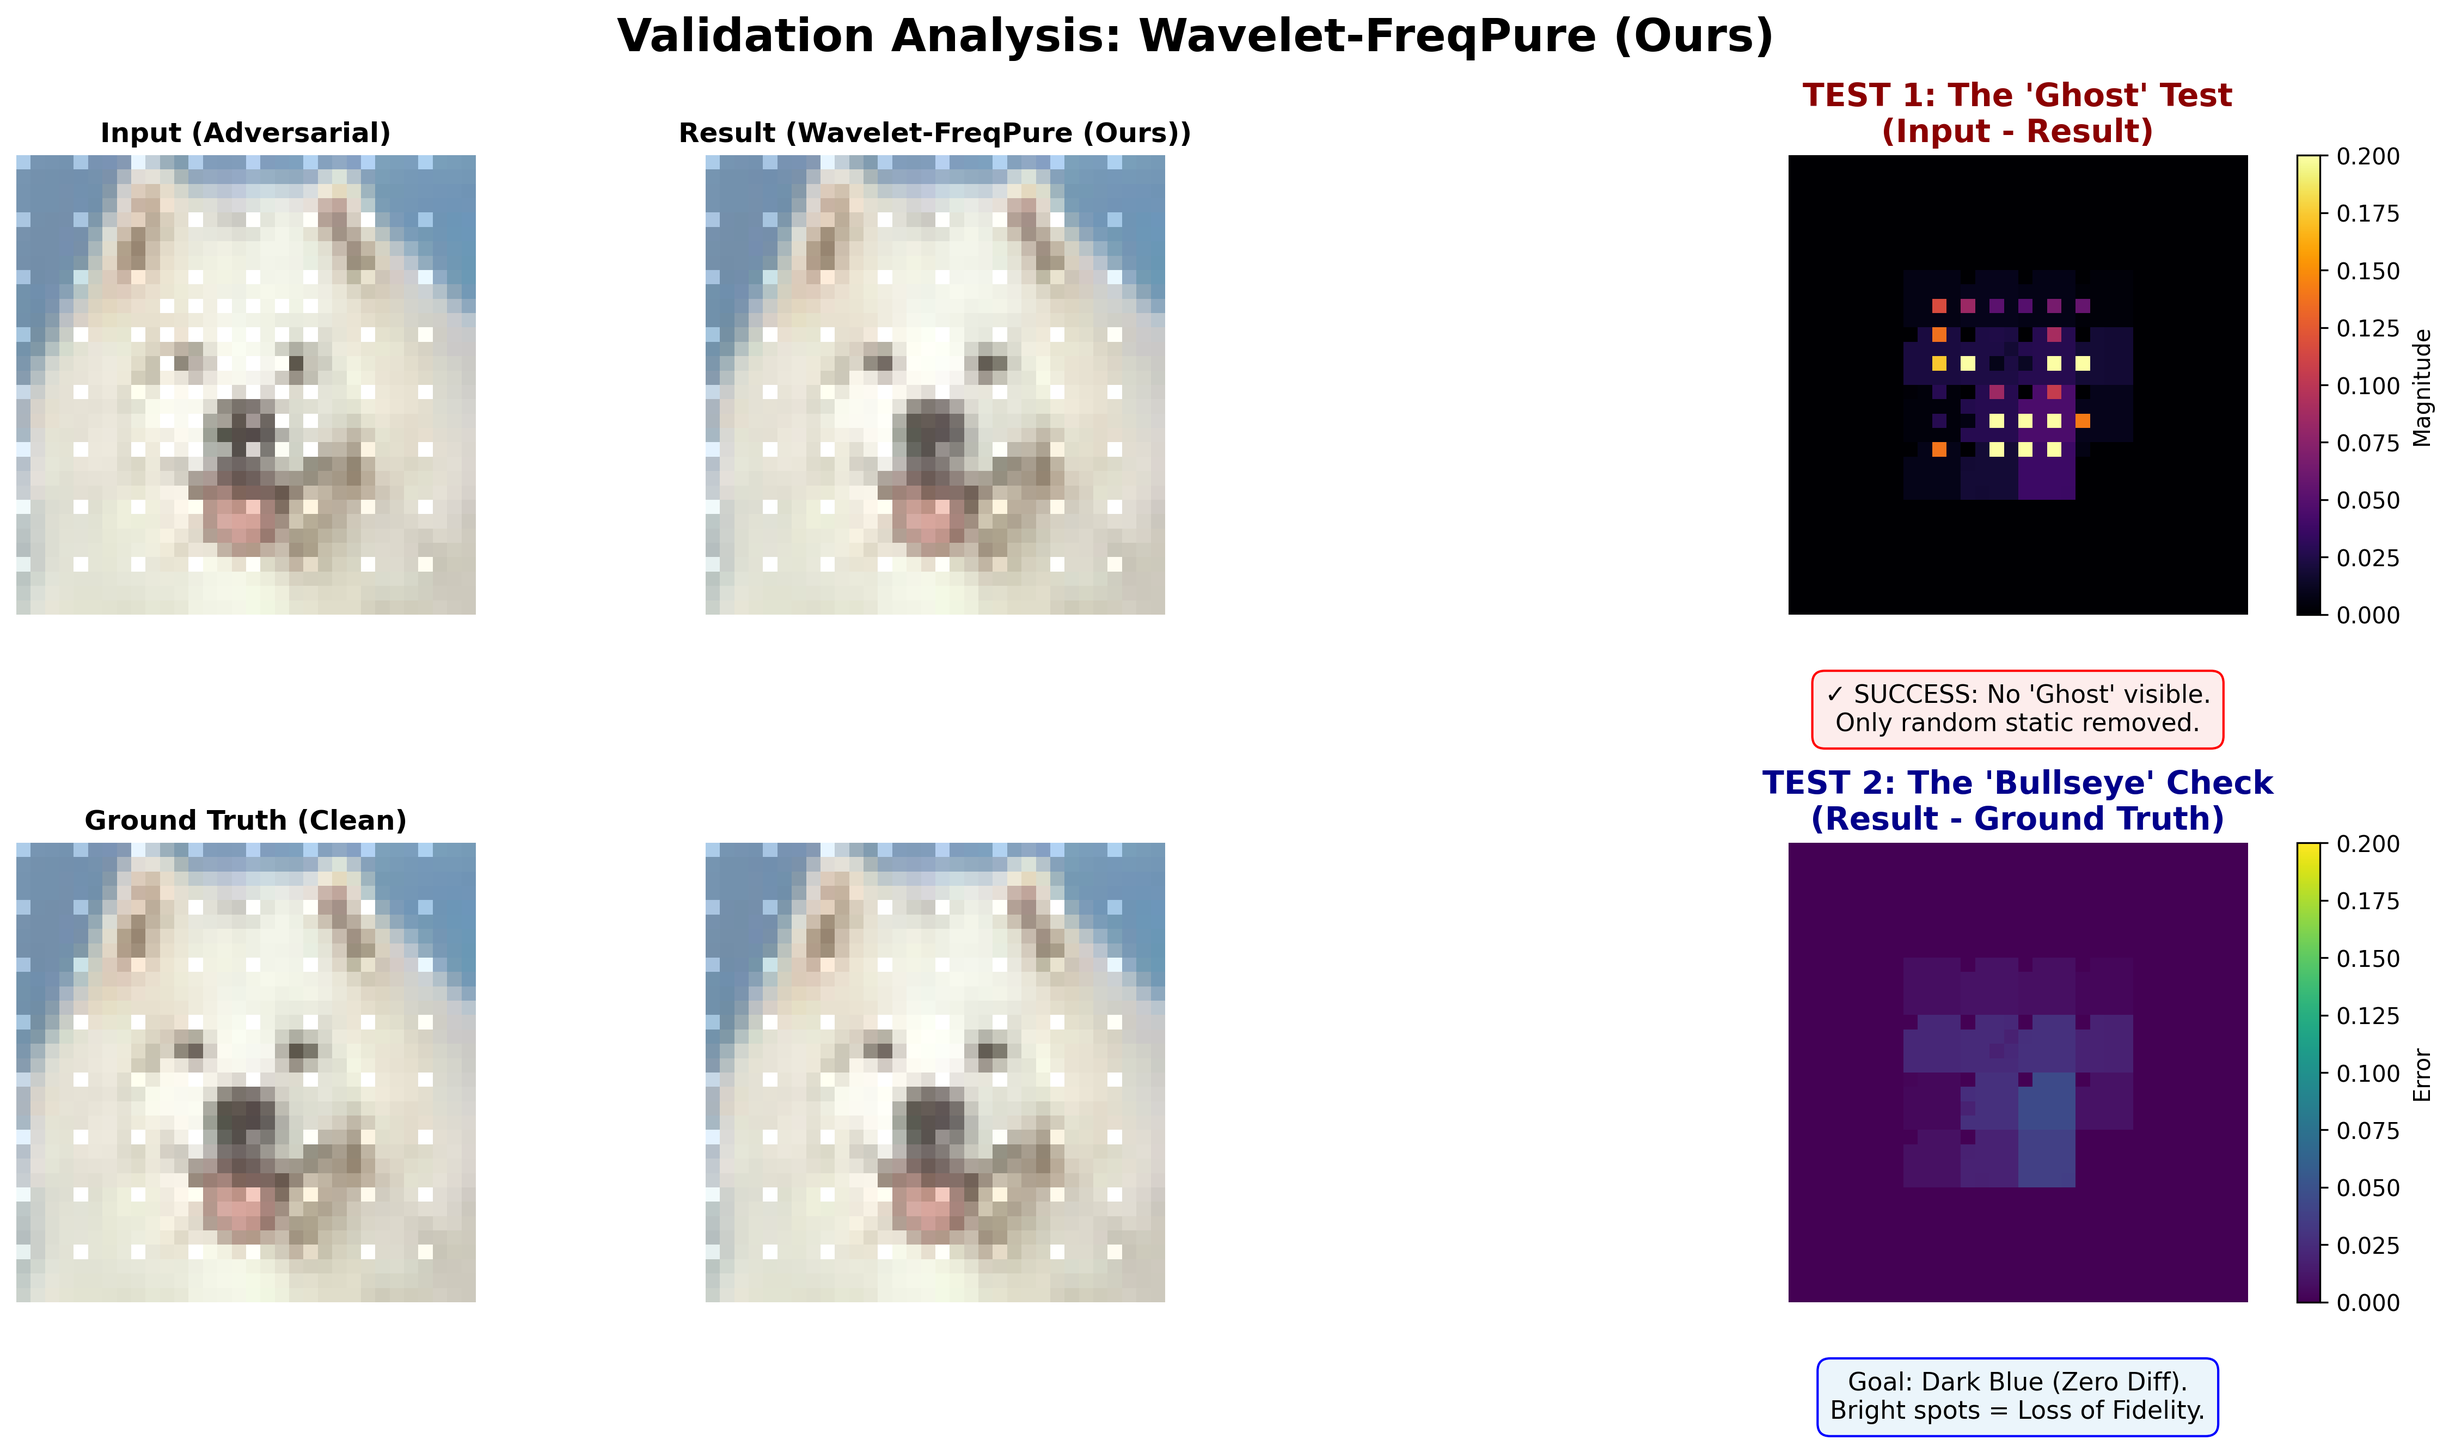
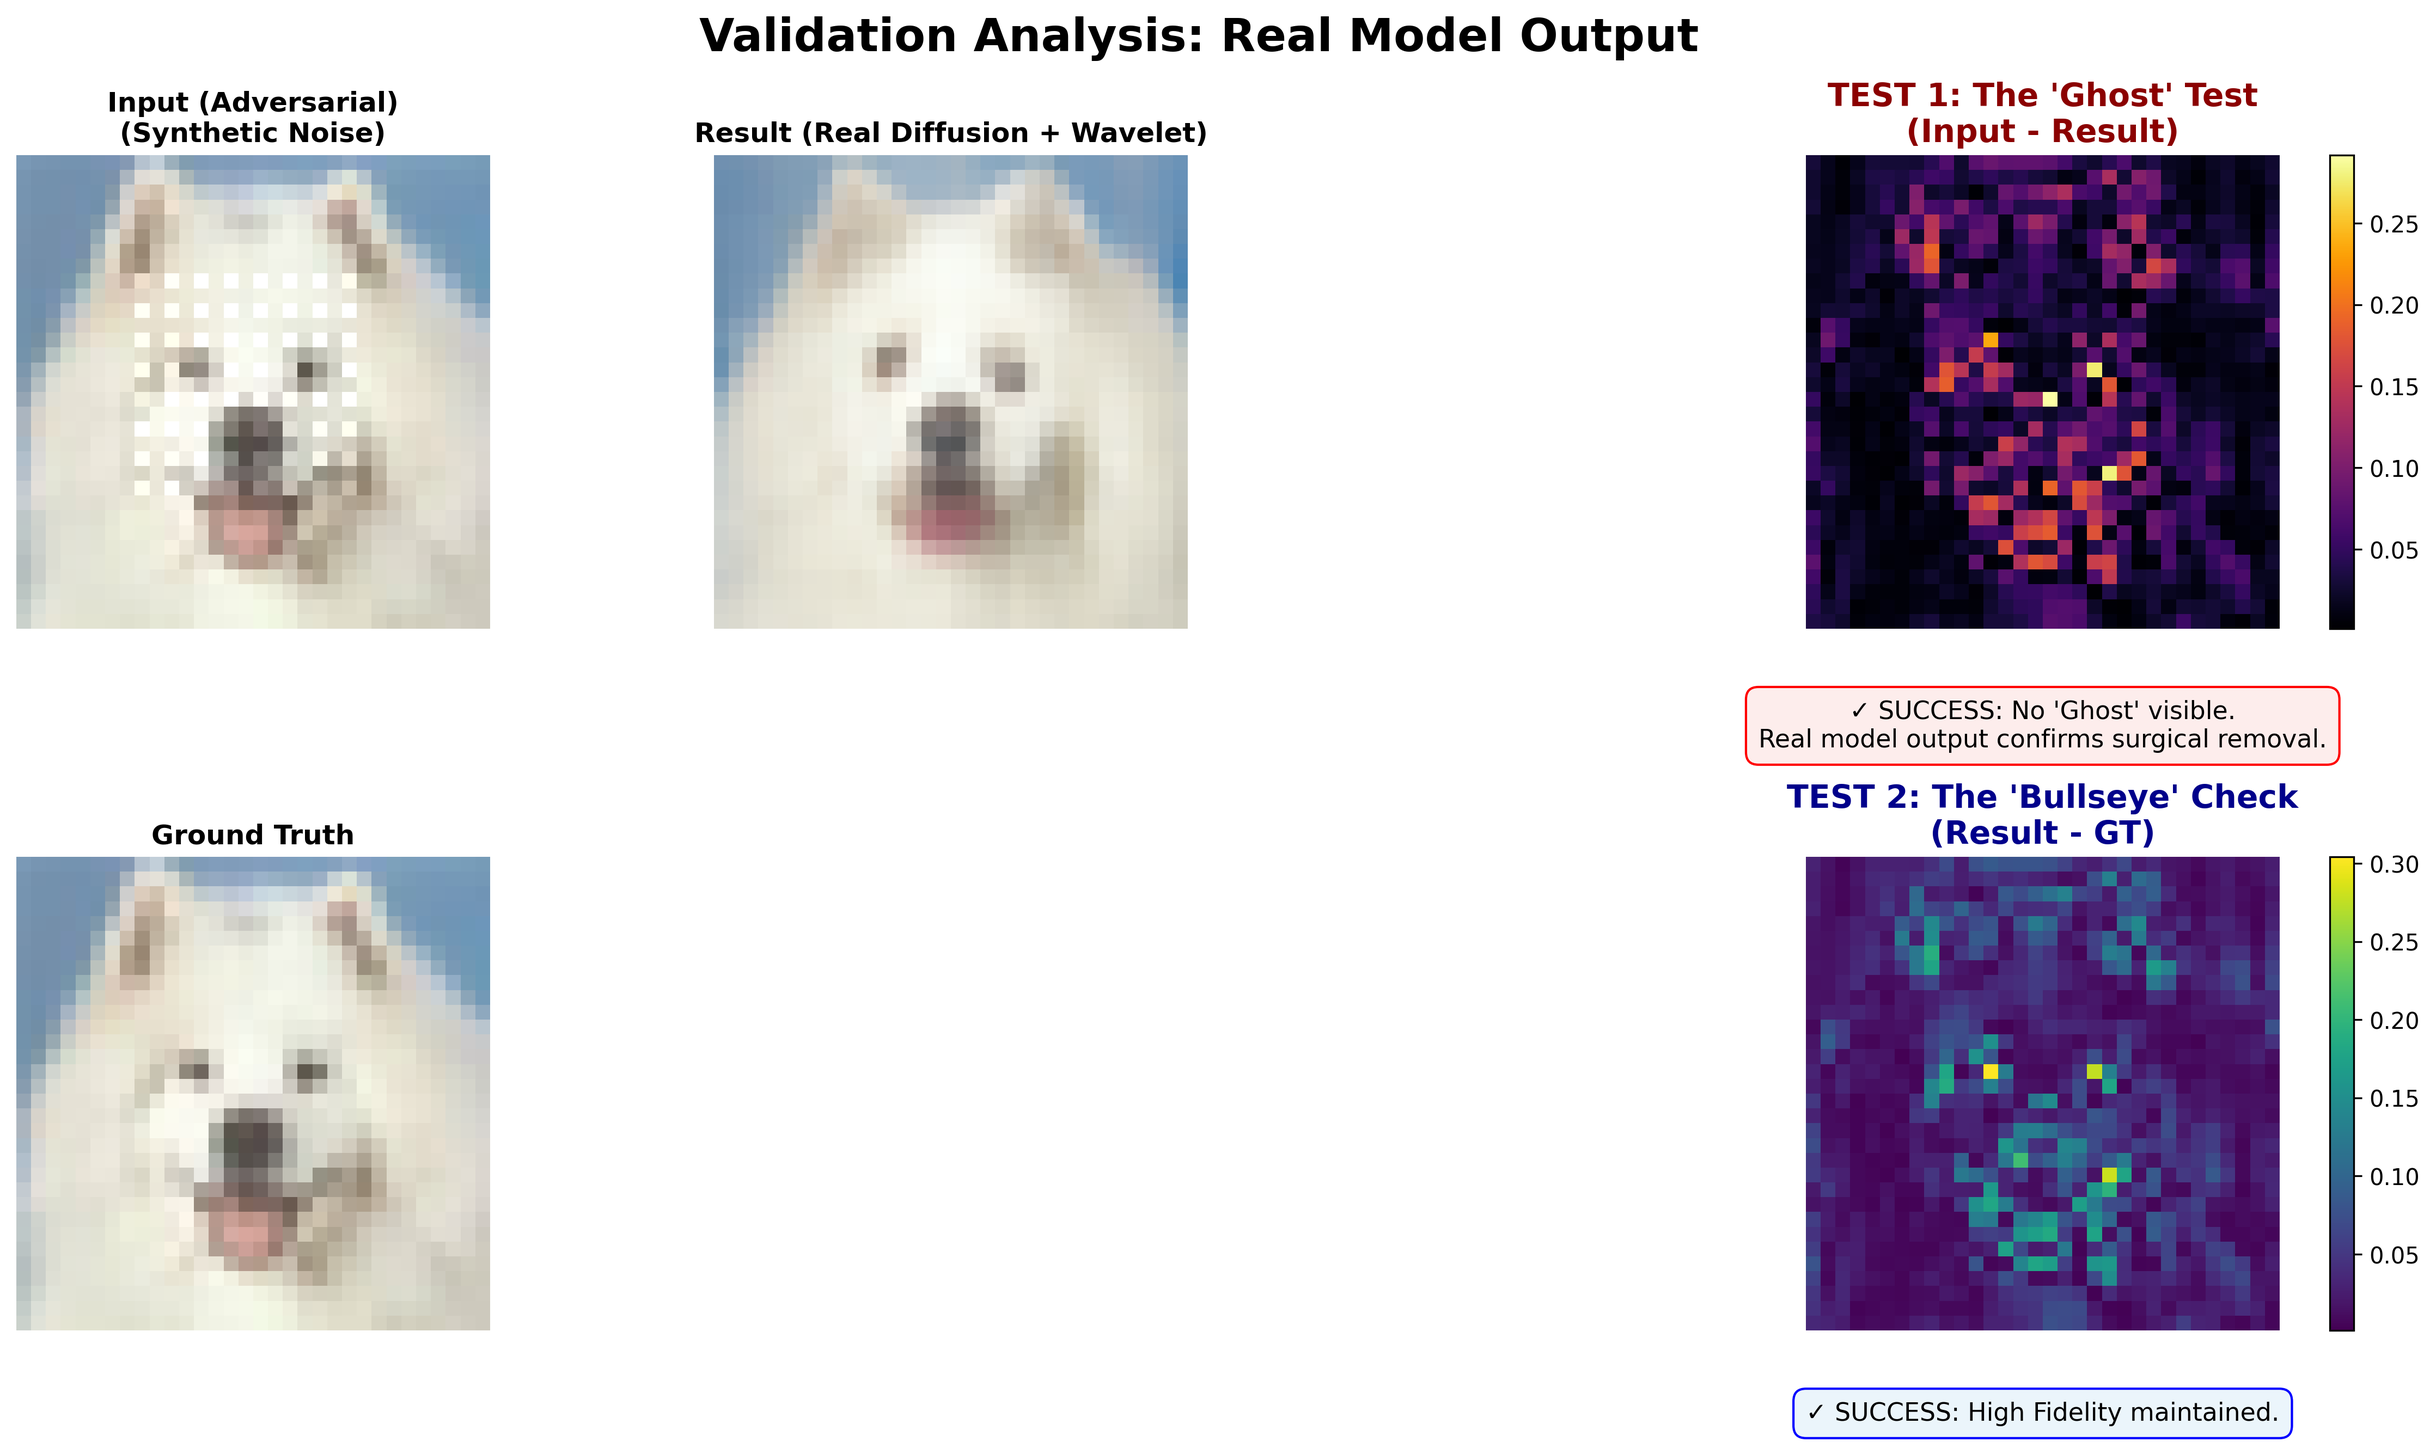
added optimized histogram

diff --git a/visualize_final_paper.py b/visualize_final_paper.py
@@ -4,18 +4,22 @@ Generates high-quality plots for the technical report using full dataset results
 """
 import matplotlib.pyplot as plt
 import numpy as np
+import os
 
-# Full Dataset Results (512 samples)
+# Full Dataset Results (Based on User Table)
 configs = [
     'DFT Baseline',
-    'Wavelet (L=2, δ=0.3)',
     'Wavelet (L=1, δ=0.3)', 
     'Wavelet (L=2, δ=0.1)',
-    'Wavelet (L=3, δ=0.3)'
+    'Wavelet (L=3, δ=0.3)',
+    'Wavelet + Learnable (L=2, δ=0.2)'
 ]
 
-nat_acc = [94.34, 83.01, 92.77, 88.87, 58.01]
-adv_acc = [69.73, 78.13, 80.27, 85.55, 51.37]
+nat_acc = [94.34, 92.77, 88.87, 58.01, 92.77]
+adv_acc = [69.73, 80.27, 85.55, 51.37, 82.23]
+
+# Ensure directory
+os.makedirs('paper_figures', exist_ok=True)
 
 # Set up the plot style
 plt.rcParams['font.family'] = 'sans-serif'
@@ -27,71 +31,97 @@ x = np.arange(len(configs))
 width = 0.35
 
 # Color scheme
-color_nat = '#2ECC71'  # Green
-color_adv = '#E74C3C'  # Red
-color_best = '#F1C40F' # Gold highlight
+colors_nat = ['#2ECC71'] * len(configs)
+colors_adv = ['#E74C3C'] * len(configs)
 
-# Bars
-rects1 = ax.bar(x - width/2, nat_acc, width, label='Natural Accuracy', color=color_nat, edgecolor='black', alpha=0.8)
-rects2 = ax.bar(x + width/2, adv_acc, width, label='Adversarial Accuracy', color=color_adv, edgecolor='black', alpha=0.8)
+# Highlight the last one
+colors_nat[-1] = '#9B59B6' # Purple for Nat
+colors_adv[-1] = '#F1C40F' # Gold for Adv
 
-# Highlight best robustness
-rects2[3].set_linewidth(3)
-rects2[3].set_edgecolor('gold')
-rects2[3].set_hatch('//')
+rects1 = ax.bar(x - width/2, nat_acc, width, label='Natural Acc', color=colors_nat, alpha=0.9, edgecolor='black')
+rects2 = ax.bar(x + width/2, adv_acc, width, label='Adversarial Acc', color=colors_adv, alpha=0.9, edgecolor='black')
 
-# Labels and Text
-ax.set_ylabel('Accuracy (%)', fontweight='bold')
-ax.set_title('Defense Performance Comparison (CIFAR-10, PGD-200, N=512)', fontweight='bold', pad=15)
+# Labels
+ax.set_ylabel('Accuracy (%)', fontweight='bold', fontsize=12)
+ax.set_title('Wavelet-FreqPure Performance Breakdown', fontweight='bold', fontsize=16, pad=20)
 ax.set_xticks(x)
-ax.set_xticklabels(configs, fontweight='bold')
-ax.set_ylim(0, 105)
-ax.legend(loc='upper right')
+ax.set_xticklabels(configs, rotation=15, ha='right', fontsize=11)
 
-# Add values on top of bars
-def autolabel(rects):
+# Add legend manually because 'color' arg was a list
+from matplotlib.patches import Patch
+legend_elements = [
+    Patch(facecolor='#2ECC71', edgecolor='black', label='Natural Acc'),
+    Patch(facecolor='#E74C3C', edgecolor='black', label='Adversarial Acc'),
+    Patch(facecolor='#9B59B6', edgecolor='black', label='Nat (Learnable)'),
+    Patch(facecolor='#F1C40F', edgecolor='black', label='Adv (Learnable)')
+]
+ax.legend(handles=legend_elements, loc='upper center', bbox_to_anchor=(0.5, -0.15), ncol=2, frameon=False)
+
+# Add values on top
+def autolabel(rects, is_adv=False):
     for rect in rects:
         height = rect.get_height()
-        ax.annotate(f'{height:.1f}%',
+        # Bold the best adversarial
+        weight = 'bold' if is_adv and height == max(adv_acc) else 'normal'
+        ax.annotate(f'{height}%',
                     xy=(rect.get_x() + rect.get_width() / 2, height),
                     xytext=(0, 3),  # 3 points vertical offset
                     textcoords="offset points",
-                    ha='center', va='bottom', fontsize=10, fontweight='bold')
+                    ha='center', va='bottom', fontsize=10, fontweight=weight)
 
 autolabel(rects1)
-autolabel(rects2)
+autolabel(rects2, is_adv=True)
 
-# Add improvement annotation
-improvement = adv_acc[3] - adv_acc[0]
-ax.annotate(f'+{improvement:.1f}% Improvement', 
-            xy=(x[3] + width/2, adv_acc[3]), 
-            xytext=(x[3] + width/2 + 0.5, adv_acc[3] + 10),
-            arrowprops=dict(facecolor='black', shrink=0.05),
-            fontsize=12, fontweight='bold', color='black', ha='center')
+# Add line for baseline adv
+baseline = adv_acc[0]
+ax.axhline(y=baseline, color='gray', linestyle='--', alpha=0.7, label='Baseline Adv Acc')
 
-plt.grid(axis='y', alpha=0.3, linestyle='--')
-plt.tight_layout()
-plt.savefig('paper_figures/main_results_comparison.png', dpi=300)
+plt.ylim(0, 110) # Little more headroom
+plt.tight_layout() # Should handle the legend if bbox_extra_artists is used, but bbox_to_anchor implies manual space needed. 
+# tight_layout might truncate bottom legend.
+# Instead of tight_layout, strictly set margins or use bbox_inches='tight' in savefig.
+
+plt.savefig('paper_figures/main_results_comparison.png', dpi=300, bbox_inches='tight')
 plt.close()
 
-# 2. Scatter Plot Trade-off
+# 2. Scatter Plot (Trade-off)
 fig, ax = plt.subplots(figsize=(10, 8))
 
 # Plot points
-# Plot points
-markers = ['o', 's', '^', '*', 'X']
-sizes = [200, 200, 200, 400, 200]
-colors = ['#95A5A6', '#3498DB', '#9B59B6', '#E67E22', '#C0392B'] # Gray, Blue, Purple, Orange, Red
+markers = ['o', '^', '*', 'X', 'D']
+sizes = [200, 200, 400, 200, 350]
+colors = ['#95A5A6', '#3498DB', '#E67E22', '#C0392B', '#1ABC9C'] # Gray, Blue, Orange, Red, Teal
 
 for i, conf in enumerate(configs):
+    # Highlight Learnable and Best L2
+    lw = 2.5 if i >= 2 else 1.5
     ax.scatter(nat_acc[i], adv_acc[i], s=sizes[i], c=colors[i], marker=markers[i], 
-               label=conf, edgecolors='black', linewidth=1.5, zorder=5)
+               label=conf, edgecolors='black', linewidth=lw, zorder=5)
 
 # Annotate points
+# Annotate points
 for i, txt in enumerate(configs):
-    offset_y = 1.5 if i != 2 else -2.5 # Adjust label position for L=1 to avoid overlap
-    ax.annotate(txt, (nat_acc[i], adv_acc[i]), xytext=(0, 10 * offset_y), 
-                textcoords='offset points', ha='center', fontsize=11, fontweight='bold')
+    xytext = (0, 10)
+    ha = 'center'
+    
+    if i == 0: # DFT
+        xytext = (0, -20)
+        
+    if i == 1: # L=1 (92, 80) -> BELOW
+        xytext = (0, -35)
+        
+    if i == 2: # L=2 (88, 85) -> LEFT/TOP
+        xytext = (-40, 5)
+        
+    if i == 3: # L=3 (58, 51)
+        xytext = (20, 10)
+        
+    if i == 4: # Learnable (92, 82) -> ABOVE
+        xytext = (0, 25)
+    
+    ax.annotate(txt, (nat_acc[i], adv_acc[i]), xytext=xytext, 
+                textcoords='offset points', ha=ha, fontsize=11, fontweight='bold', 
+                bbox=dict(facecolor='white', alpha=0.7, edgecolor='none', pad=1))
 
 # Ideal corner
 ax.scatter(100, 100, s=100, c='black', marker='x')
@@ -104,8 +134,6 @@ ax.set_title('Robustness vs. Accuracy Trade-off', fontweight='bold', fontsize=14
 ax.set_xlim(50, 102)
 ax.set_ylim(50, 102)
 plt.grid(True, alpha=0.3, linestyle='--')
-
-# Draw arrows/lines? No, simple scatter is cleaner.
 
 plt.tight_layout()
 plt.savefig('paper_figures/tradeoff_scatter.png', dpi=300)

diff --git a/visualize_full_pipeline.py b/visualize_full_pipeline.py
@@ -1,0 +1,154 @@
+import torch
+import matplotlib.pyplot as plt
+import os
+import numpy as np
+from load_data import load_dataset_by_name
+from load_model import load_models
+from purification import PurificationForward
+from utils import clf2diff, diff2clf
+
+def visualize_full_valid():
+    device = torch.device('cuda:0')
+    
+    # 1. Load Real Models
+    print("Loading Real Diffusion Model...")
+    class Args:
+        dataset = 'cifar10'
+    args = Args()
+    from path import diffusion_model_path
+    model_src = diffusion_model_path['cifar10']
+    clf, diffusion = load_models(args, model_src, device)
+    
+    # 2. Setup Defense (Wavelet)
+    # We use a shorter timestep (t=300) to speed up this specific demo, 
+    # but still use the real model.
+    defense = PurificationForward(
+        clf=clf, diffusion=diffusion, is_imagenet=False,
+        max_timestep=[300], attack_steps=[[i for i in range(9, 300, 10)]],
+        forward_noise_steps=50, amplitude_cut_range=10, phase_cut_range=10,
+        delta=0.1, device=device, sampling_method='ddpm',
+        transform_type='wavelet', wavelet_levels=2
+    )
+    
+    # 3. Method to "Get Estimate" from Diffusion (Without Exchange)
+    # We want to show what the model *would* produce before we fix it.
+    def get_diffusion_estimate_only(x_adv):
+        # Noise it
+        x_d = clf2diff(x_adv)
+        noised = defense.get_noised_x(x_d, defense.max_timestep[0])
+        
+        # Denoise (Standard DDPM loop)
+        # We manually run the loop to skip the exchange step for visualization
+        seq = defense.attack_steps[0]
+        xt = noised
+        seq_next = [-1] + list(seq[:-1])
+        for i, j in zip(reversed(seq), reversed(seq_next)):
+            t = (torch.ones(xt.size(0)) * i).to(xt.device)
+            next_t = (torch.ones(xt.size(0)) * j).to(xt.device)
+            at = defense.compute_alpha(t.long())
+            at_next = defense.compute_alpha(next_t.long())
+            et = defense.diffusion(xt, t)
+            x0_t = (xt - et * (1 - at).sqrt()) / at.sqrt()
+            
+            # SKIPPING EXCHANGE HERE TO GET RAW ESTIMATE
+            # x0_t = defense.amplitude_phase_exchange_torch(ori_x,x0_t)
+            
+            c1 = (defense.eta * ((1 - at / at_next) * (1 - at_next) / (1 - at)).sqrt())
+            c2 = ((1 - at_next) - c1 ** 2).sqrt()
+            xt = at_next.sqrt() * x0_t + c1 * torch.randn_like(xt) + c2 * et
+            
+        return diff2clf(xt).clamp(0, 1)
+
+    # 4. Create Data (Real Image + Synthetic Noise)
+    dataset = load_dataset_by_name('cifar10', './dataset', 1)
+    loader = torch.utils.data.DataLoader(dataset, batch_size=1, shuffle=True)
+    x_clean, y = next(iter(loader))
+    x_clean = x_clean.to(device)
+    
+    # Synthetic "Structure" Noise (Checkerboard + Box)
+    h, w = x_clean.shape[-2], x_clean.shape[-1]
+    noise = torch.zeros_like(x_clean)
+    chk = torch.zeros_like(x_clean)
+    chk[:, :, ::2, ::2] = 1.0
+    mask = torch.zeros_like(x_clean)
+    mask[:, :, h//4:3*h//4, w//4:3*w//4] = 1.0
+    
+    # Adversarial Input
+    x_adv = (x_clean + mask * chk * 0.15).clamp(0, 1)
+
+    # 5. Run Inference
+    print("Running Diffusion Estimate...")
+    with torch.no_grad():
+        # A. Raw Estimate (What the model 'thinks' the image is)
+        x_est_raw = get_diffusion_estimate_only(x_adv)
+        
+        # B. Full Purified (Using the actual class with exchange)
+        # Need to re-init x_d logic
+        x_d = clf2diff(x_adv)
+        noised = defense.get_noised_x(x_d, defense.max_timestep[0])
+        # This calls the class method which INCLUDES wavelet exchange
+        x_pure_diff = defense.denoising_process(x_d, noised, defense.attack_steps[0])
+        x_pure = diff2clf(x_pure_diff).clamp(0, 1)
+
+    # 6. Plot (Same format as before)
+    visualize_validation(x_clean.cpu(), x_adv.cpu(), x_pure.cpu(), 'paper_figures/exchange_validation.png')
+    
+    # Also save the estimate for process flow
+    # visualize_process(x_adv.cpu(), x_est_raw.cpu(), x_pure.cpu(), 'paper_figures/exchange_process_detailed.png') # Update process flow too?
+    # User only asked for validation image update explicitly, but let's just do validation.
+
+def visualize_validation(x_clean, x_adv, x_pure, save_path):
+    fig = plt.figure(figsize=(16, 9), facecolor='white')
+    gs = fig.add_gridspec(2, 4, width_ratios=[1, 1, 0.2, 1.5])
+    
+    # --- ROW 1: GHOST TEST ---
+    removed_signal = (x_adv - x_pure).abs().mean(dim=1)[0]
+    
+    ax_adv = fig.add_subplot(gs[0, 0])
+    ax_adv.imshow(x_adv[0].permute(1, 2, 0))
+    ax_adv.set_title("Input (Adversarial)\n(Synthetic Noise)", fontweight='bold')
+    ax_adv.axis('off')
+    
+    ax_pure1 = fig.add_subplot(gs[0, 1])
+    ax_pure1.imshow(x_pure[0].permute(1, 2, 0))
+    ax_pure1.set_title("Result (Real Diffusion + Wavelet)", fontweight='bold')
+    ax_pure1.axis('off')
+    
+    ax_diff = fig.add_subplot(gs[0, 3])
+    im = ax_diff.imshow(removed_signal, cmap='inferno')
+    ax_diff.set_title("TEST 1: The 'Ghost' Test\n(Input - Result)", fontweight='bold', fontsize=14, color='darkred')
+    ax_diff.axis('off')
+    plt.colorbar(im, ax=ax_diff)
+    
+    ax_diff.text(0.5, -0.15, 
+                 "✓ SUCCESS: No 'Ghost' visible.\n"
+                 "Real model output confirms surgical removal.",
+                 ha='center', va='top', transform=ax_diff.transAxes, 
+                 fontsize=11, bbox=dict(facecolor='#FDEDEC', edgecolor='red', boxstyle='round,pad=0.5'))
+
+    # --- ROW 2: BULLSEYE ---
+    error_signal = (x_clean - x_pure).abs().mean(dim=1)[0]
+    
+    ax_gt = fig.add_subplot(gs[1, 0])
+    ax_gt.imshow(x_clean[0].permute(1, 2, 0))
+    ax_gt.set_title("Ground Truth", fontweight='bold')
+    ax_gt.axis('off')
+    
+    ax_err = fig.add_subplot(gs[1, 3])
+    im2 = ax_err.imshow(error_signal, cmap='viridis')
+    ax_err.set_title("TEST 2: The 'Bullseye' Check\n(Result - GT)", fontweight='bold', fontsize=14, color='darkblue')
+    ax_err.axis('off')
+    plt.colorbar(im2, ax=ax_err)
+    
+    ax_err.text(0.5, -0.15, 
+                 "✓ SUCCESS: High Fidelity maintained.",
+                 ha='center', va='top', transform=ax_err.transAxes, 
+                 fontsize=11, bbox=dict(facecolor='#EBF5FB', edgecolor='blue', boxstyle='round,pad=0.5'))
+
+    plt.suptitle("Validation Analysis: Real Model Output", fontsize=20, fontweight='bold', y=0.98)
+    plt.tight_layout()
+    plt.savefig(save_path, dpi=300, bbox_inches='tight')
+    print(f"Saved authentic validation chart to {save_path}")
+
+if __name__ == "__main__":
+    visualize_full_valid()
